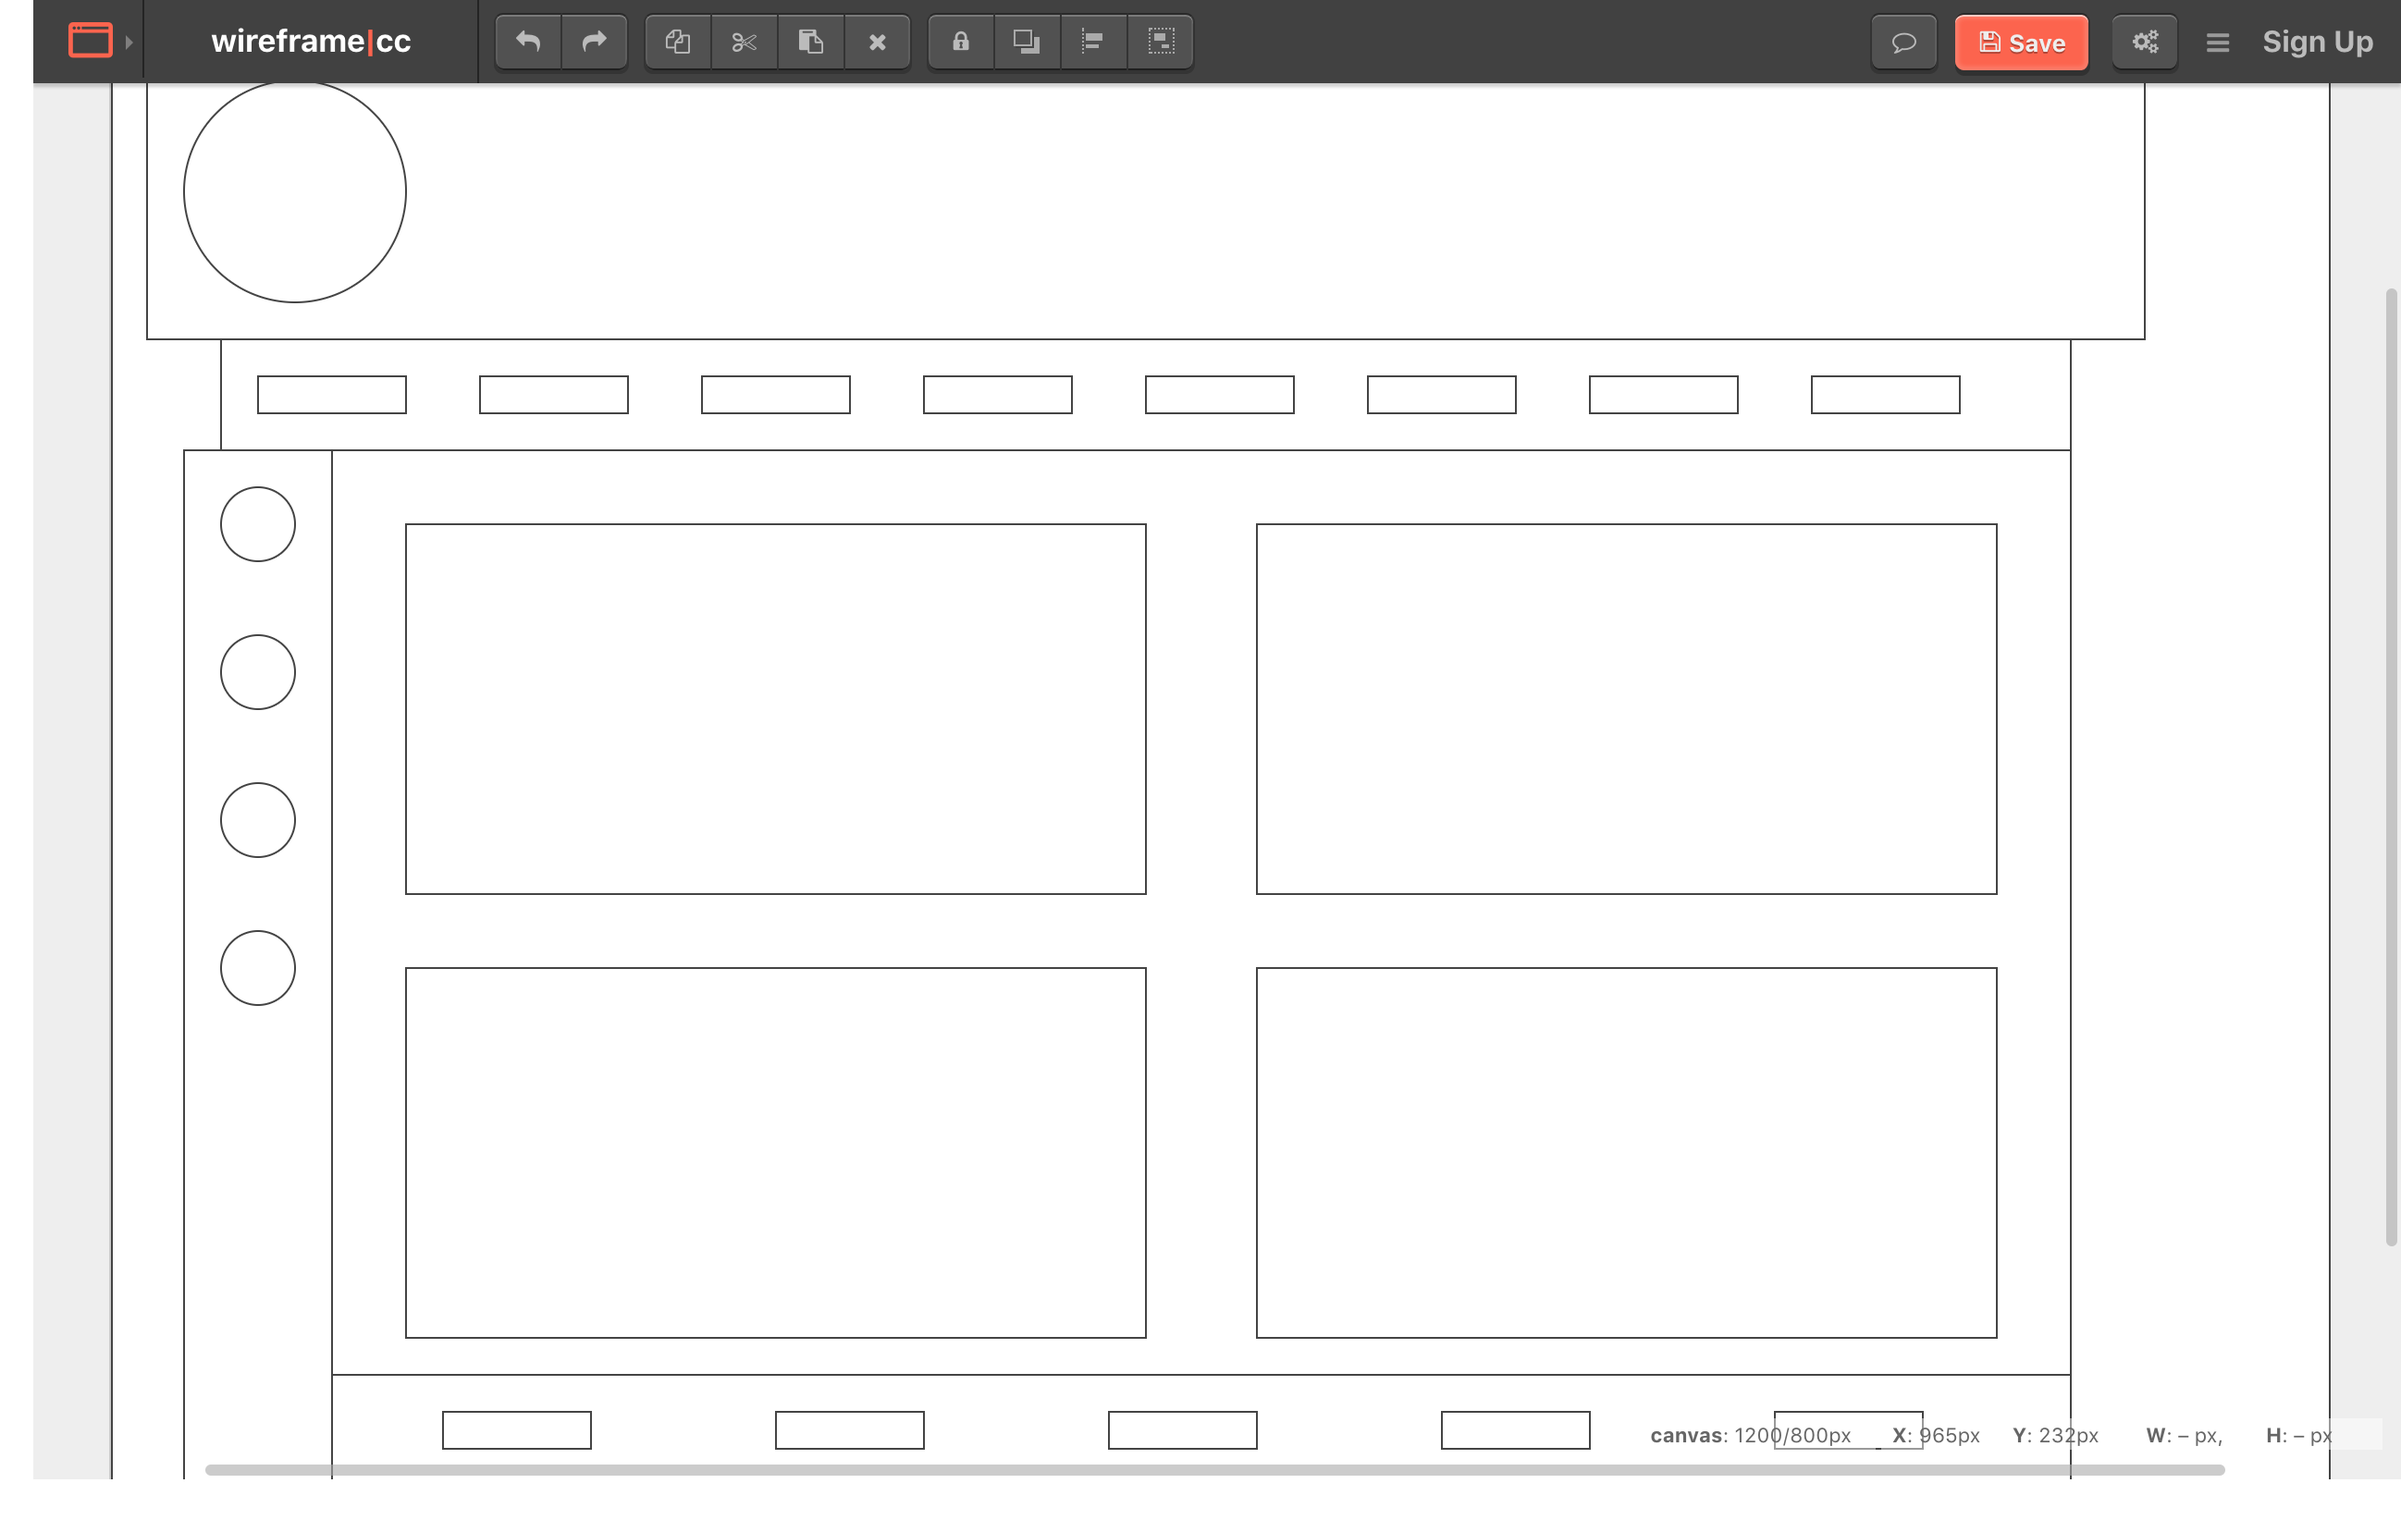
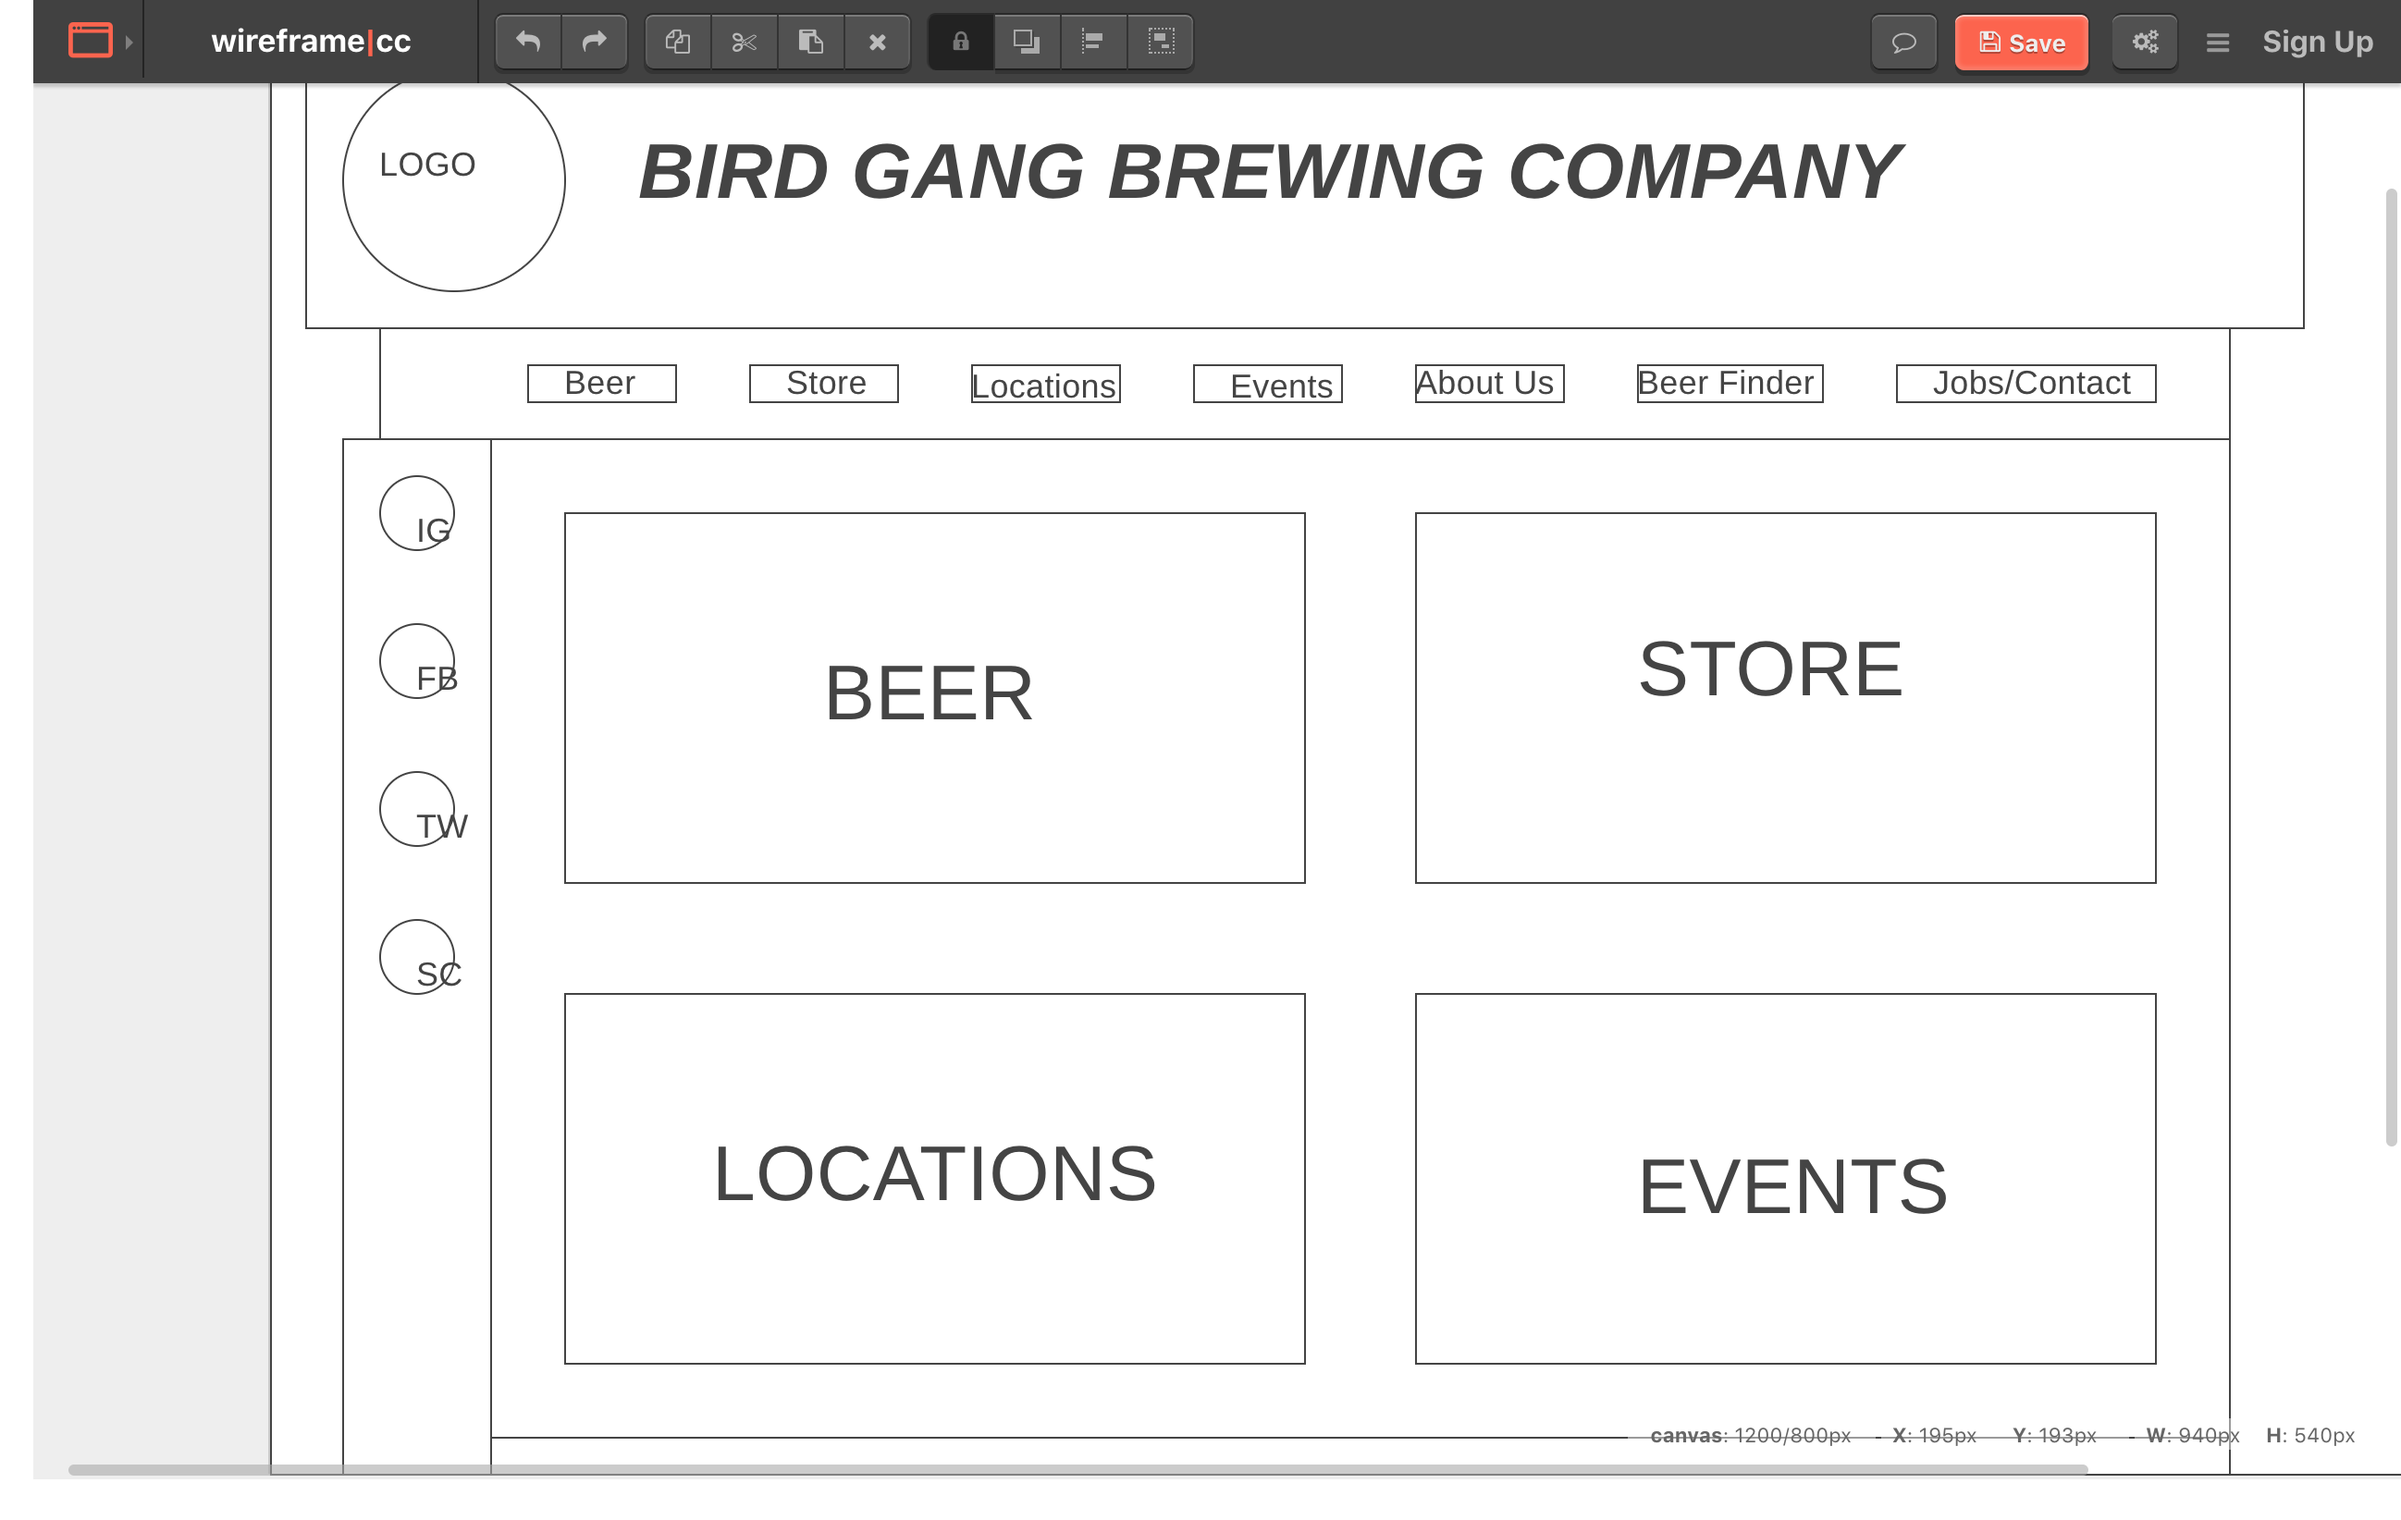
update mockup 1

diff --git a/unit_1/index.html b/unit_1/index.html
@@ -1,12 +1,12 @@
 <!DOCTYPE html>
 <html>
-	<head>
-		<title>Bird Gang Brewing Co.</title>
-		<link rel="stylesheet" type="text/css" href="css/style.css">
-	</head>
-	<body>
-		<h1>Bird Gang Brewing Co.</h1>
-			<p>Lorem ipsum dolor sit amet, consectetur adipisicing elit, sed do eius mod tempor incididunt ut labore et dolore magna aliqua. Ut enim ad minimveniam, quis nostrud exercitation ullamco laboris nisi ut aliquip ex ea commodo consequat. Duis aute irure dolor in reprehenderit in voluptate velit esse cillum dolore eu fugiat nulla pariatur. Excepteur sint occaecat cupidatat non proident, sunt in culpa qui officia deserunt mollit anim id est laborum.</p>
+<head>
+	<title>Bird Gang Brewing Co.</title>
+	<link rel="stylesheet" type="text/css" href="css/style.css">
+</head>
+<body>
+	<h1>Bird Gang Brewing Co.</h1>
+		<p>Lorem ipsum dolor sit amet, consectetur adipisicing elit, sed do eius mod tempor incididunt ut labore et dolore magna aliqua. Ut enim ad minimveniam, quis nostrud exercitation ullamco laboris nisi ut aliquip ex ea commodo consequat. Duis aute irure dolor in reprehenderit in voluptate velit esse cillum dolore eu fugiat nulla pariatur. Excepteur sint occaecat cupidatat non proident, sunt in culpa qui officia deserunt mollit anim id est laborum.</p>
 
-	</body>
+</body>
 </html>

diff --git a/unit_3/index.html b/unit_3/index.html
@@ -2,11 +2,10 @@
 <html>
 <head>
 	<title>Bird Gang Brewing Co.</title>
-	<link rel="stylesheet" type="text/css" href="css.style/css">
+	<link rel="stylesheet" type="text/css" href="css/style.css">
 </head>
 <body>
 	<h1>Bird Gang Brewing Co.</h1>
-	<p id="slogan">Birds of a Feather Drink Together!</p>
 	<nav>
 		<a href="#">Beer</a>
 		<a href="#">Store</a>
@@ -16,7 +15,16 @@
 		<a href="#">Beer Finder</a>
 		<a href="#">Contact & Jobs</a>
 	</nav>
-	<p>Bird Gang Brewing Co. was founded by B., O., and E. in 3019. Please join us at one of our four locations:
+	<p id="slogan">Birds of a Feather Drink Together!</p>
+	<img src="images/beermountains.jpg" alt="Mountain Top Beer" title="mountain top beer">
+	<br>
+	<div>beer</div>
+	<div>store</div>
+	<div>locations</div>
+	<div>events</div>
+	<br>
+	
+	<p>Join us at one of our four locations:
 		<ul>
 			<li>Golden, CO (Main Production Facility)</li>
 			<li>Vail, CO (Tasting Room)</li>

diff --git a/unit_3/css/style.css b/unit_3/css/style.css
@@ -1,4 +1,6 @@
-body {background-color: #000000;
+body { /*background: url(http://s4301.pcdn.co/wp-content/uploads/2017/07/5-1024x595.jpg);*/
+	/*background-size: cover;*/
+	background-color: #000000;
 	color: #E8D788;
 	text-align: center;
 }
@@ -8,21 +10,30 @@ h1 {color: #FF5D49;
 	text-decoration: underline;
 	font-weight: 700;
 	font-size: 35;
+	font-style: italic;
+}
+
+nav {color: white;
+	text-decoration: normal;
 }
 
 #slogan {text-transform: uppercase;
 	font-style: italic;
-	color: #FF5D49;
+	color: #96E7FF;
 }
 
-nav {color: #FFA96E;
-	text-decoration: normal;
+ul {text-align: center;
+	list-style-position: inside;
 }
 
-p {background-image: url(images/beermountains.jpeg);
-}
-
-li {color: #FF5D49;
+div {text-transform: uppercase;
+	margin-top: 5px;
+	margin-right: 150px;
+	margin-left: 300px;
+	width: 50%;
+	border: 10px solid #FF5D49;
+	padding: 5px;
+	
 }
 
 
